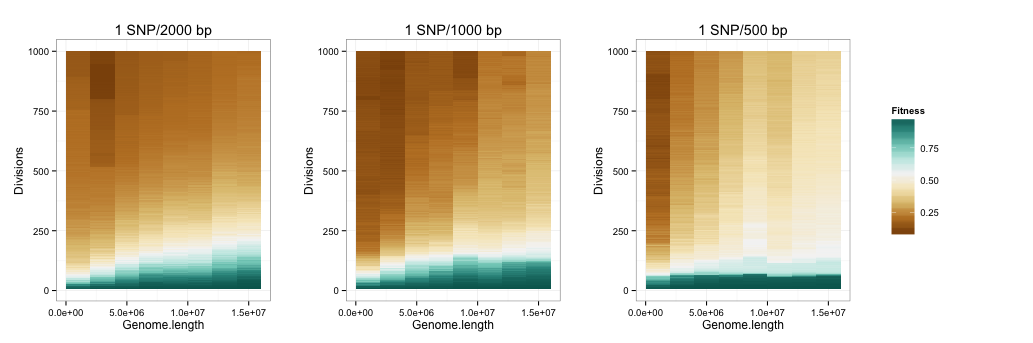
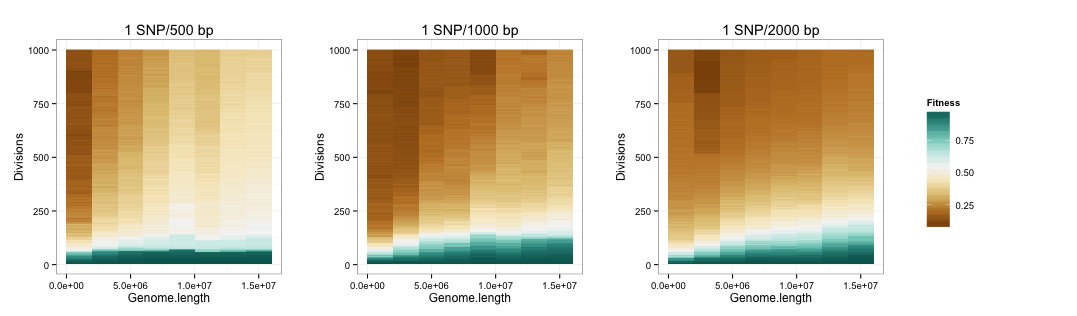
New SNP density plot

diff --git a/Results/Results.md b/Results/Results.md
@@ -79,9 +79,14 @@ Effect of the SNP density
 ----
 For the following results, I used 700 contigs to build the genomes. 
 
-1. Same number of homozygous and heterozygous SNPs. 
+###1. Same number of homozygous and heterozygous SNPs. 
 ![Image](https://github.com/pilarcormo/Correlations/blob/master/Results/Rplot.SNP_density_brewer.png?raw=false)
-2. Increase ht SNP density while keeping the number of hm SNPs constant
+
+###2. Increase ht SNP density while keeping the number of hm SNPs constant
+
+![Image](https://github.com/pilarcormo/Correlations/blob/master/Results/Rplot.Ht_Hmconstant.png?raw=false)
+
+
 
 Future?
 3. Increase hm SNP density while keeping the number of ht SNPs constant
